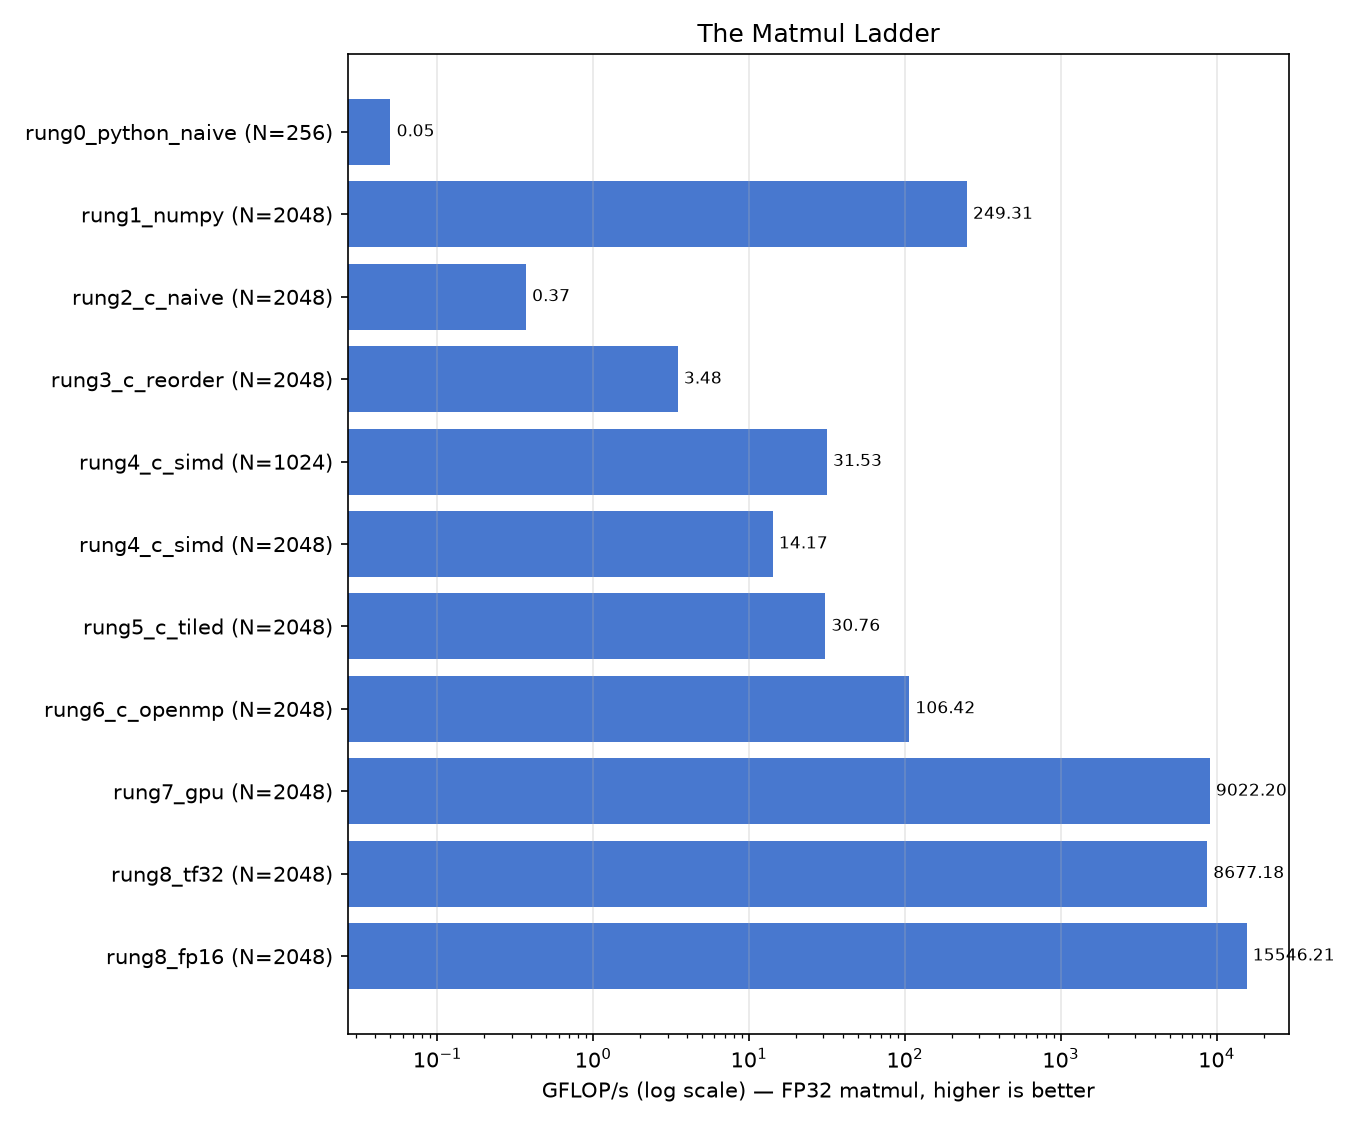
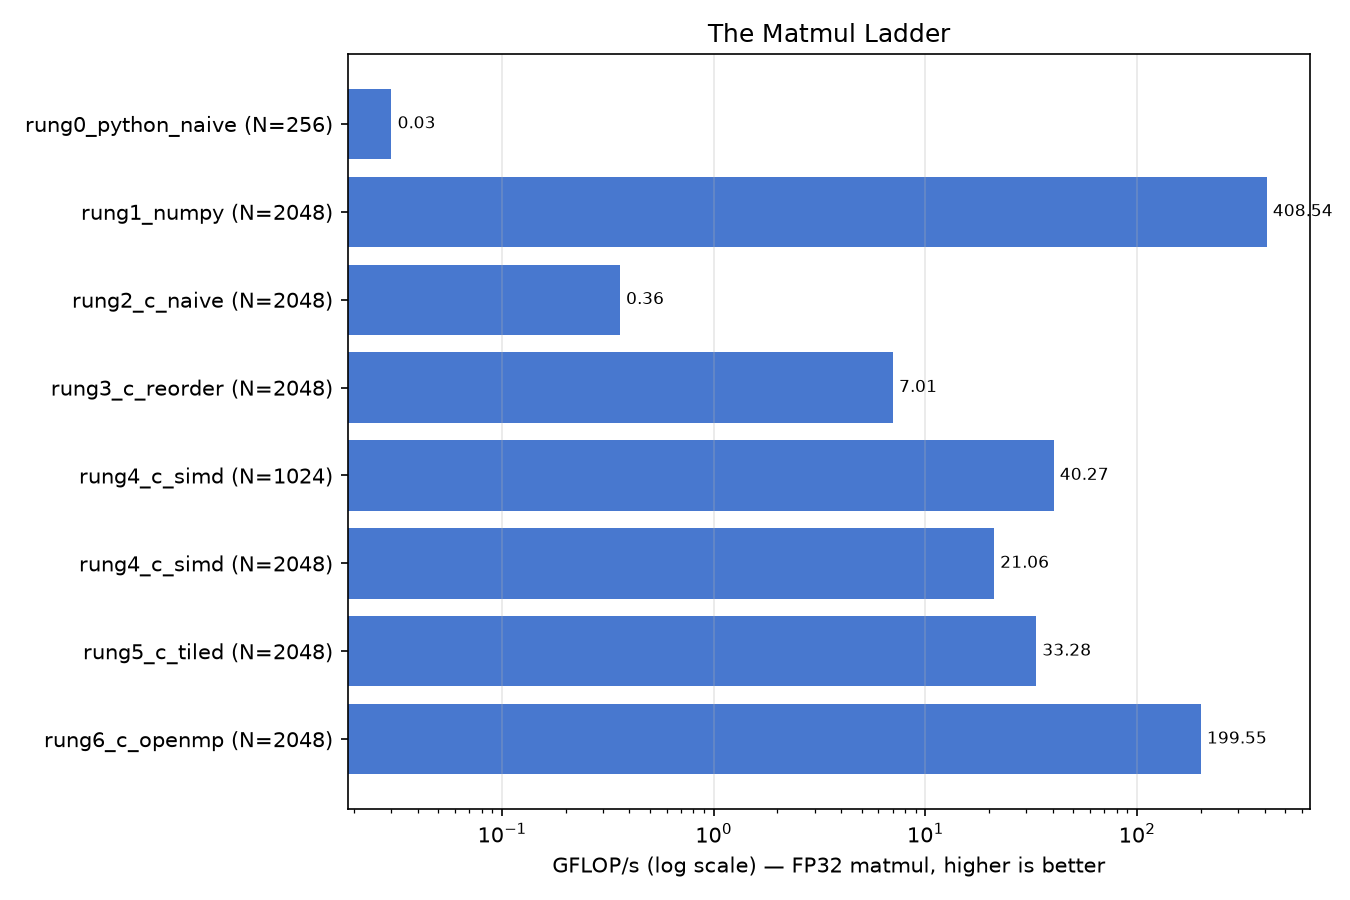
update lecture3_4

Changed region(s): [[0.0311, 0.0, 0.9956, 0.9956], [0.0311, 0.6222, 0.2489, 0.6533], [0.0311, 0.3111, 0.2489, 0.3422]]

diff --git a/code/ai_acceleration/rung5_c_tiled.c b/code/ai_acceleration/rung5_c_tiled.c
@@ -24,15 +24,16 @@
 #endif
 
 static void matmul(const float *restrict A, const float *restrict B,
-                   float *restrict C, int n) {
+                   float *restrict C, int n) {          // restrict → SIMD (no-alias guarantee)
     for (int ii = 0; ii < n; ii += T)
         for (int kk = 0; kk < n; kk += T)
-            for (int jj = 0; jj < n; jj += T)
+            for (int jj = 0; jj < n; jj += T)           // tile loops → TEMPORAL (working set fits in cache)
                 for (int i = ii; i < ii + T; i++)
                     for (int k = kk; k < kk + T; k++) {
-                        float a = A[i * n + k];
+                        float a = A[i * n + k];          // TEMPORAL (register): reused T times below
                         for (int j = jj; j < jj + T; j++)
                             C[i * n + j] += a * B[k * n + j];
+                            // ^ SPATIAL: stride-1 on B and C   ^ SIMD: broadcast-a FMA, independent lanes
                     }
 }
 

diff --git a/code/ai_acceleration/common/gen_inputs.py b/code/ai_acceleration/common/gen_inputs.py
@@ -24,7 +24,7 @@ def generate(n: int, outdir: str) -> None:
 
 if __name__ == "__main__":
     p = argparse.ArgumentParser()
-    p.add_argument("--n", type=int, nargs="+", default=[256, 1024, 2048])
+    p.add_argument("--n", type=int, nargs="+", default=[256, 1024, 2048, 4096])
     p.add_argument("--datadir", default=os.path.join(os.path.dirname(__file__), "..", "data"))
     args = p.parse_args()
     for n in args.n:

diff --git a/docs/lectures/Lecture3_4.md b/docs/lectures/Lecture3_4.md
@@ -255,7 +255,16 @@ Process the matrices in T×T blocks so the working set stays in cache:
 
 - **Concept: thread parallelism.** Independent tiles of C can be computed by different cores — no coordination needed, because matmul's outputs don't depend on each other.
 - Result: **106 GFLOP/s** on 8 cores. Within ~2× of NumPy's BLAS — we have essentially reconstructed a real library.
-- **This is the CPU ceiling.** Every remaining gain needs more cores, and cores are expensive in area and power.
+
+!!! question "💬 `lscpu` says 16 CPUs, yet the speedup over one core is only ~5×. Where did the other 11 go?"
+
+    ??? hint "Answer"
+        - **8 of the 16 were never cores.** This chip has 8 physical cores × 2 SMT threads ("hyperthreads"). Each *pair* of threads shares one core's FMA units — and a dense matmul already keeps those pipes full with one thread, so the second adds ~nothing. What the OS advertises (logical CPUs) and what the silicon has (FPUs) are different numbers. Honest ceiling: 8×.
+        - **All-core clock < single-core boost.** One busy core turbos to ~4.6 GHz; eight busy cores share the same power/thermal budget and settle near ~3.5 GHz. Each core is ~20% slower than the single core was. The power budget is a shared resource.
+        - **L3 and DRAM bandwidth are shared too.** One core had 16 MB of L3 to itself; eight get 2 MB each, and all their misses queue at one memory controller. Compute ×8, bytes/second ×1.
+        - Measure it: sweep `OMP_NUM_THREADS=1,2,4,8` (pinned: `OMP_PLACES=cores`). Scaling is ~1.9× at 2 threads, sagging by 4, rolled over by 8 — the signature of shared-resource contention. *We bought 8× the arithmetic and 1× the memory — and got 5×.*
+
+- **This is the CPU ceiling.** Every remaining gain needs more cores — and cores multiply neither the memory bandwidth nor the power budget they must share.
 
 ---
 
@@ -323,3 +332,4 @@ The [README](https://github.com/Ankush-Chander/DS635-ml-system-engineering/tree/
 1. Vijay Janapa Reddi, [*Machine Learning Systems*](https://mlsysbook.ai) — Ch 11: AI Acceleration (§§ 11.4, 11.7)
 2. Samuel Williams et al., [*Roofline: An Insightful Visual Performance Model*](https://dl.acm.org/doi/10.1145/1498765.1498785) (CACM 2009)
 3. [How to Tile Matrix Multiplication](https://alvinwan.com/how-to-tile-matrix-multiplication/)
+4. [Matrix Multiplication: Tiling & Cache Visualization](https://arthurviens.github.io/cache-visualizer/)

diff --git a/docs/index.md b/docs/index.md
@@ -10,6 +10,8 @@ Welcome to the course on Machine Learning System Engineering.
 
 - [0: Course Overview](lectures/Lecture0.md) — ML systems vs traditional software, evolution of AI, the triad, The Bitter Lesson
 - [1: Machine Learning Lifecycle](lectures/Lecture1.md) — lifecycle, engineering practices, Waymo case study, core challenges
-- [2: Why Accelerators Exist](lectures/Lecture2.md) — the CPU baseline, the memory wall, what the matmul workload demands
 
+### Module 2 — GPU Fundamentals & Hardware-Software Stack
+- [Lecture 2 — Why Accelerators Exist](docs/lectures/Lecture2.md): The CPU baseline · the memory wall · what the matmul workload demands · design the hardware yourself
+- [Lecture 3_4 — Memory Hierarchy & Roofline](docs/lectures/Lecture3_4.md): Memory hierarchy · roofline model · 
 ---
